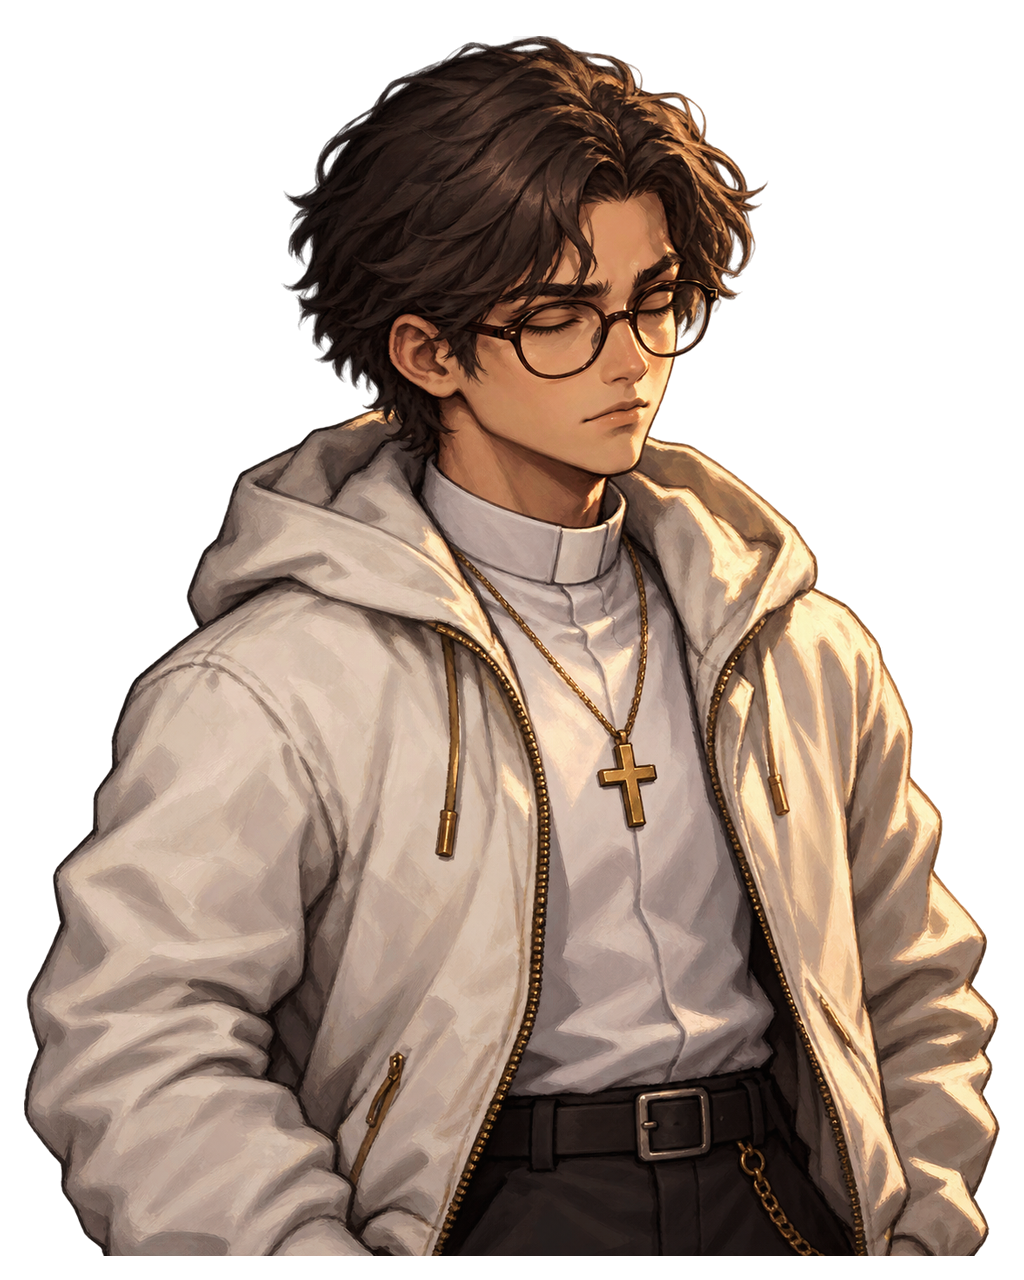
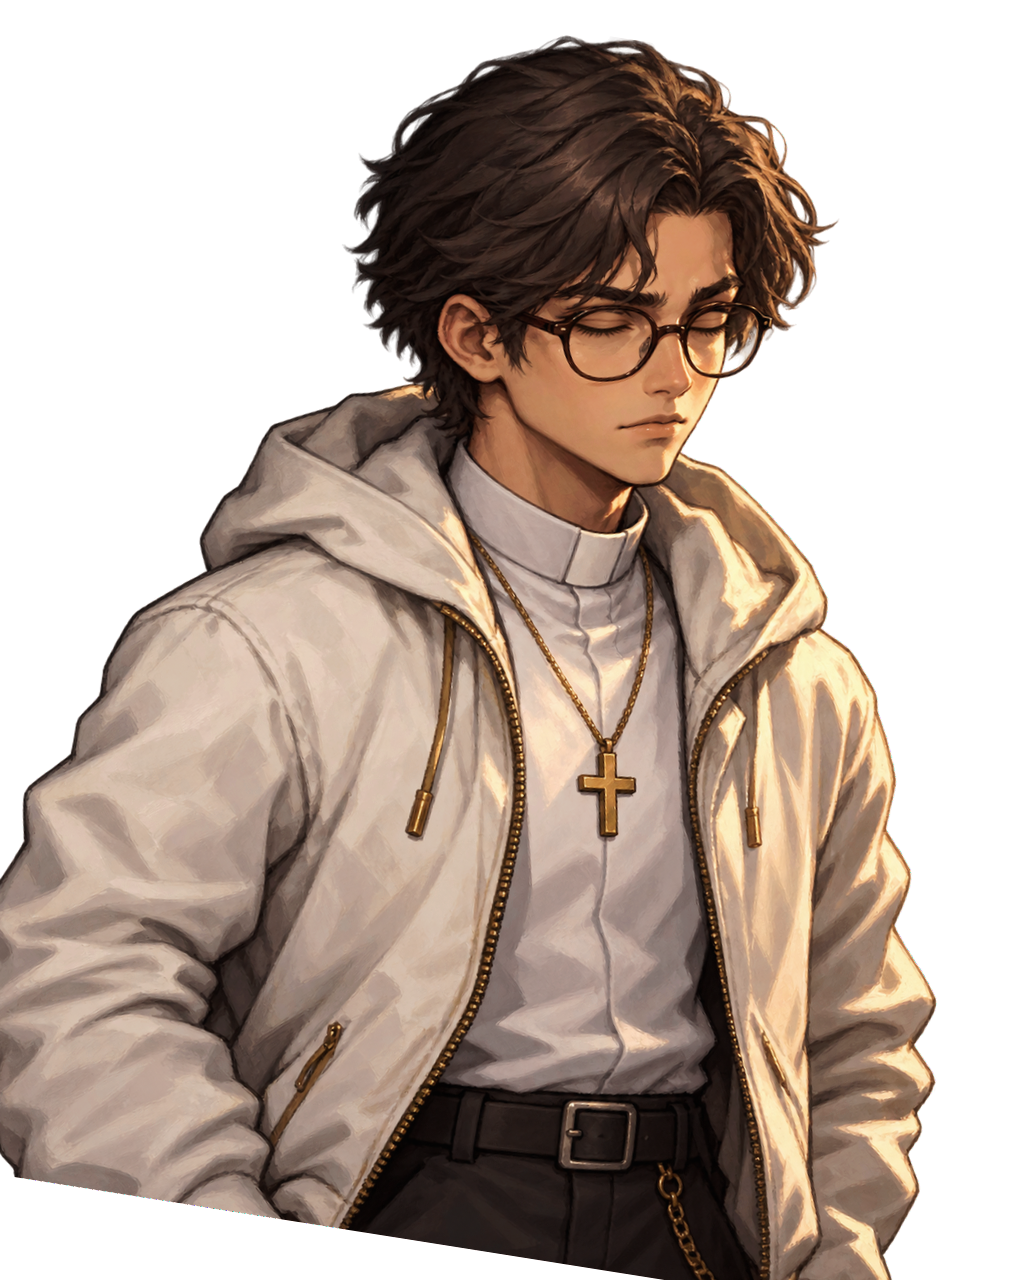
Retratos: Alosi em pé (girado 9°), recorte mais aberto sem cortar a cabeça; X das janelas centrado
- Alosi: o corpo e a cabeça pendiam para o lado (\); os dois retratos (olhos abertos e fechados) giram 9° para ficar em pé, sem deformar o rosto.
- portrait.ts: o recorte do retrato abre mais (64% da altura) e começa acima do topo da cabeça, em vez de fechar no rosto e cortar o cabelo.
- hud.css: o cabeçalho das janelas de papel cresce com o botão X, que antes vazava para cima e encostava na borda.

diff --git a/client/src/render/portrait.ts b/client/src/render/portrait.ts
@@ -97,14 +97,25 @@ function loadArt(url: string): Promise<Art | null> {
             }
           }
         if (pn > 200) {
-          const ch = Math.min(fh * 0.5, W);
+          // a cabeça inteira, com folga em cima, e um pouco de ombro embaixo (antes fechava tanto que cortava o cabelo)
+          const ch = Math.min(fh * 0.64, W * 1.1);
           const fx = px / pn;
           const fy = py / pn;
-          res({ img, crop: { x: fx - ch / 2, y: fy - ch * 0.46, w: ch, h: ch } });
+          // topo da cabeça: a primeira linha com corpo perto do rosto (arma levantada ao lado não conta)
+          const xa = Math.max(0, Math.round(fx - fh * 0.16));
+          const xb = Math.min(W - 1, Math.round(fx + fh * 0.16));
+          let top = y0;
+          topo: for (let y = y0; y < fy; y++)
+            for (let x = xa; x <= xb; x += 2)
+              if (d[(y * W + x) * 4 + 3] > 96) {
+                top = y;
+                break topo;
+              }
+          res({ img, crop: { x: fx - ch / 2, y: Math.min(top - fh * 0.045, fy - ch * 0.5), w: ch, h: ch } });
           return;
         }
-        const ch = fh * 0.6;
-        res({ img, crop: { x: cx - ch / 2, y: y0 - fh * 0.03, w: ch, h: ch } });
+        const ch = fh * 0.64;
+        res({ img, crop: { x: cx - ch / 2, y: y0 - fh * 0.045, w: ch, h: ch } });
       };
       im.onerror = () => res(null);
       im.src = url;

diff --git a/client/src/ui/hud.css b/client/src/ui/hud.css
@@ -2190,6 +2190,15 @@ html:not(.modo-ficha) :is(.fx-nt-aba.on, .fj-aba.on) {
   color: var(--r-tinta-ouro) !important;
   box-shadow: inset 0 0.12rem 0 rgba(255, 240, 190, 0.7), inset 0 -0.15rem 0 rgba(120, 60, 10, 0.5) !important;
 }
+/* a janela: o cabeçalho cresce com o X (3,6rem) em vez de ficar nos 3,9rem do painel, onde o X vazava
+   para cima e encostava na borda; o X fica à mesma distância do alto e da direita */
+html:not(.modo-ficha) .fj:not(.rq) > .fx-tit {
+  height: auto;
+  min-height: 5.6rem;
+  box-sizing: border-box;
+  margin: 0;
+  padding: 1rem 1.2rem 1rem 1.8rem;
+}
 /* a janela: o X de fechar na ponta, depois da linha de ouro */
 html:not(.modo-ficha) .fx-tit .fj-x {
   order: 4;
